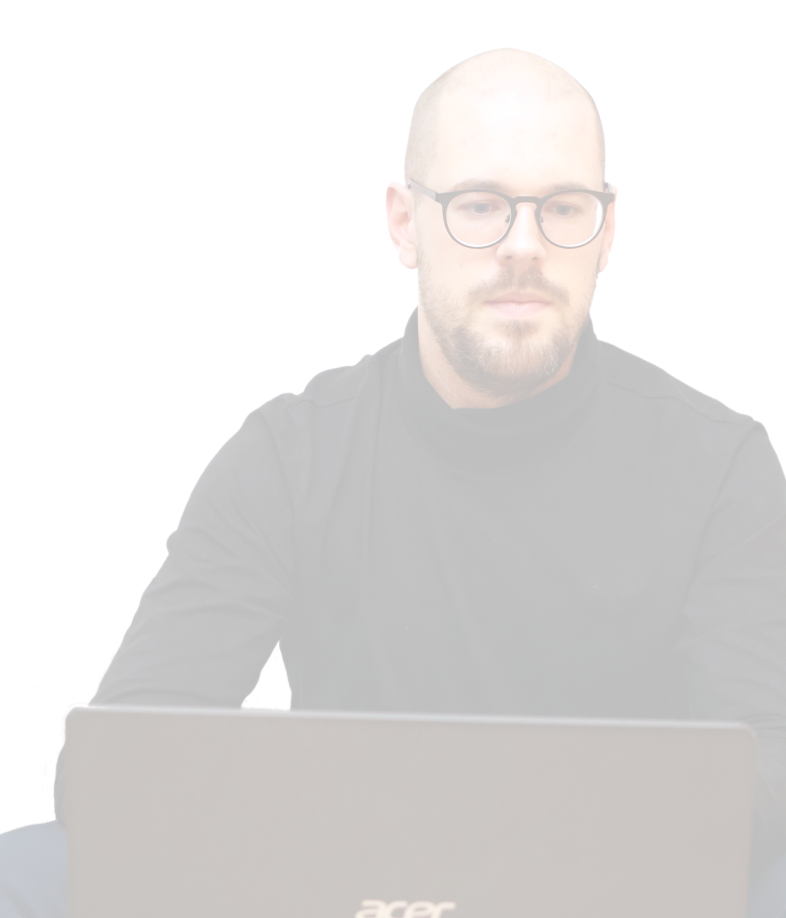
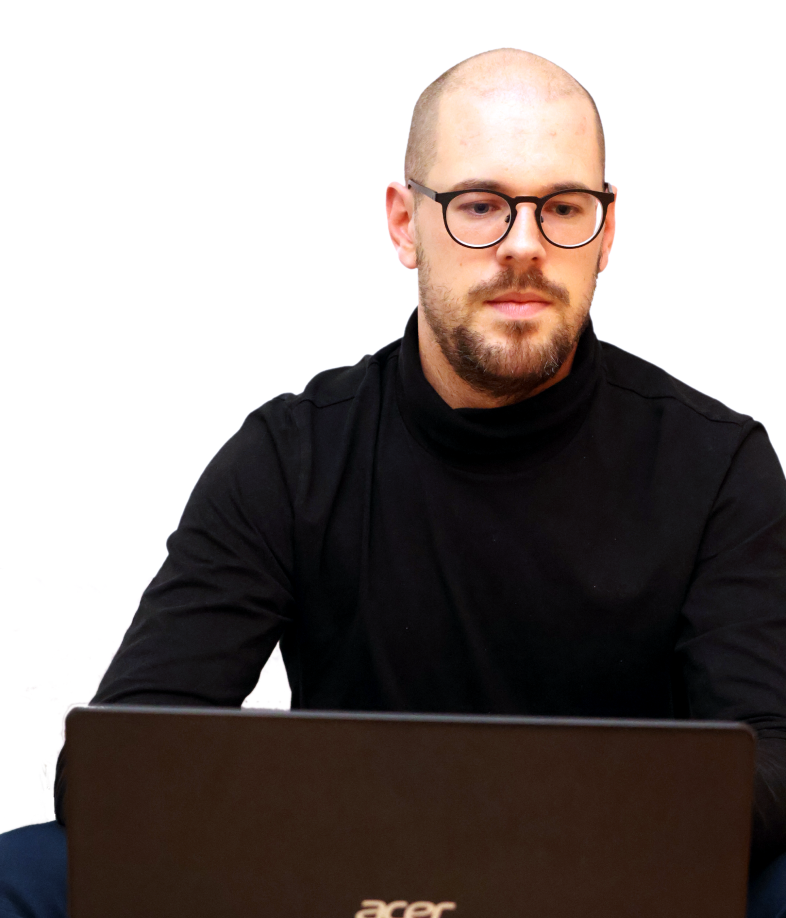
rebasing and merging

diff --git a/app/globals.css b/app/globals.css
@@ -4,23 +4,55 @@
 
 
 
-@keyframes change-page{
+@keyframes startup{
   0%{
-    opacity:100%;
-  }
-  50%{
-    opacity:0%;
+    opacity:0;
   }
   100%{
-    opacity:100%;
+    opacity:1;
   }
 }
+
+
 
 body {
 font-size: 2rem;
 background-color: #ffffff;
 background-image: url("../public/img/dark-geometric.png");
 } 
+
+@media (max-width:1000px) {
+  
+  .main-profile-pic-class{
+    position:fixed;
+    height: 10vh;
+    overflow: hidden;
+    opacity:40%;
+    animation: 200ms ease-in-out 0s 1 startup;
+    transition-duration: all 300ms;
+  }
+  .profile-pic-startup{
+    opacity:0%;
+  }
+  .start-page-profile-pic{
+    bottom:-10px;
+    right:-380px;
+  }
+  .about-page-profile-pic{
+    bottom:-10px;
+    right:0;
+    opacity:100%;
+  }
+  
+  .portfolio-and-experiences-page-profile-pic{
+    bottom:0;
+    right:0;
+  }
+  .knowledge-page-profile-pic{
+    bottom:-10px;
+    left:-380px;
+  }
+}
 
 ul {
   font-size:0.7em;
@@ -34,30 +66,33 @@ ul {
   background-image:url('../public/img/profile-pic.png');
   position:fixed;
   width:auto;
-  height: 40.5rem;
-  overflow: hidden;
-  opacity:30%;
-  animation: 1s ease-in-out 0s 1 startup;
+  height: 70vh;
+  overflow:hidden;
+  opacity:40%;
+  animation: 200ms ease-in-out 0s 1 startup;
   transition-duration: 300ms;
+  left:auto;
+  right:auto;
 
 }
 .profile-pic-startup{
   opacity:0%;
 }
 .start-page-profile-pic{
-  bottom:0;
+  bottom:-10px;
   right:-390px;
 }
 .about-page-profile-pic{
-  bottom:0;
+  bottom:-10px;
   right:0;
   opacity:100%;
 }
-.knowledge-and-experiences-page-profile-pic::before{
-  right:-390px;
-}
-.knowledge-and-experiences-page-profile-pic{
+
+.portfolio-and-experiences-page-profile-pic{
   bottom:0;
   right:0;
-  opacity:30%;
+}
+.knowledge-page-profile-pic{
+  bottom:-10px;
+  right:60vw;
 }

diff --git a/app/layout.tsx b/app/layout.tsx
@@ -2,10 +2,8 @@
 import type { Metadata } from 'next'
 import { Chakra_Petch } from 'next/font/google'
 import './globals.css'
-import Navbar from './components/navbar'
 import AnimationLayout from './components/animationLayout'
 
-import BackgroundImage from './components/backgroundImage';
 
 const mainFont = Chakra_Petch({ weight: "700", subsets: ["latin"] });
 

diff --git a/app/components/animationLayout.tsx b/app/components/animationLayout.tsx
@@ -4,7 +4,6 @@ import { motion, AnimatePresence } from 'framer-motion';
 import Navbar from './navbar';
 import BackgroundImage from './backgroundImage';
 
-
 const AnimationLayout = ({
   children,
 }: {
